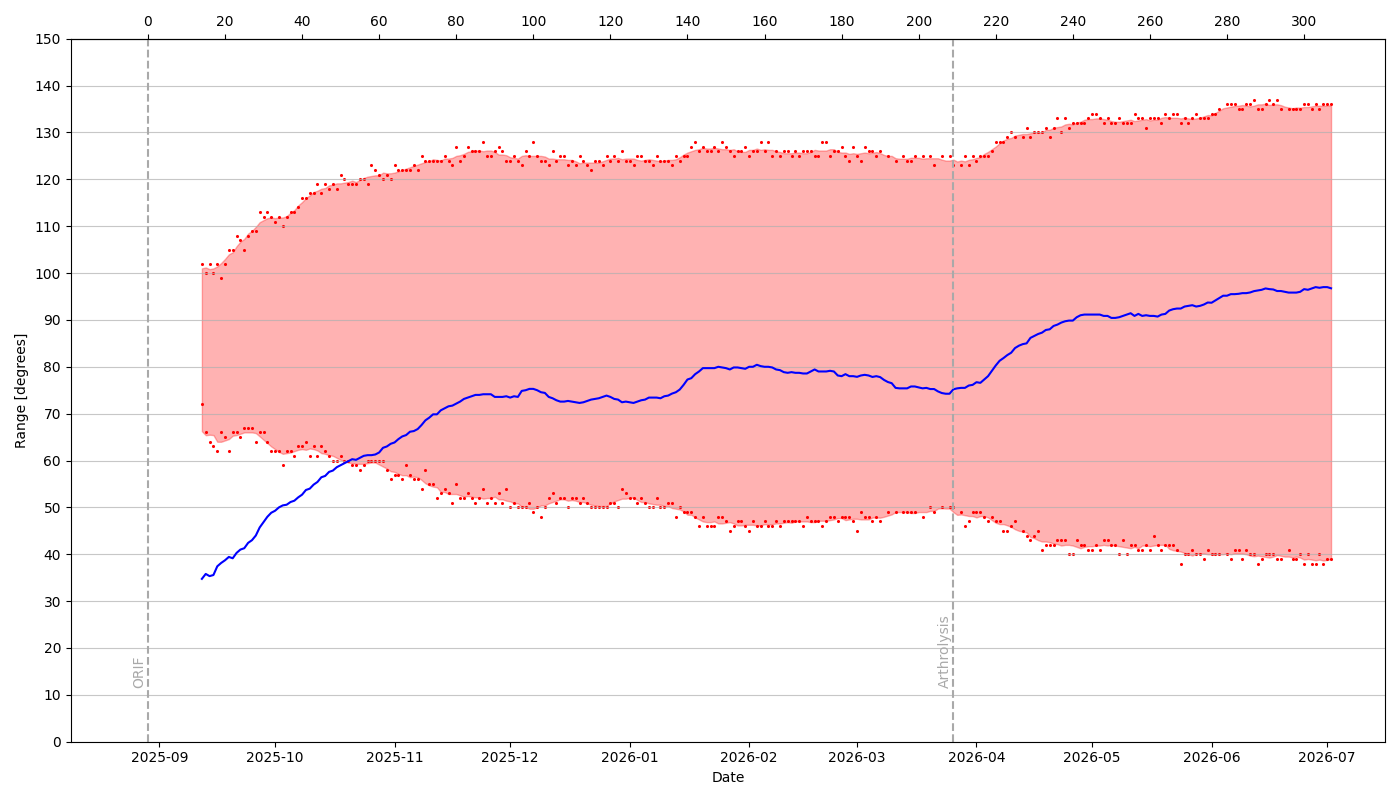
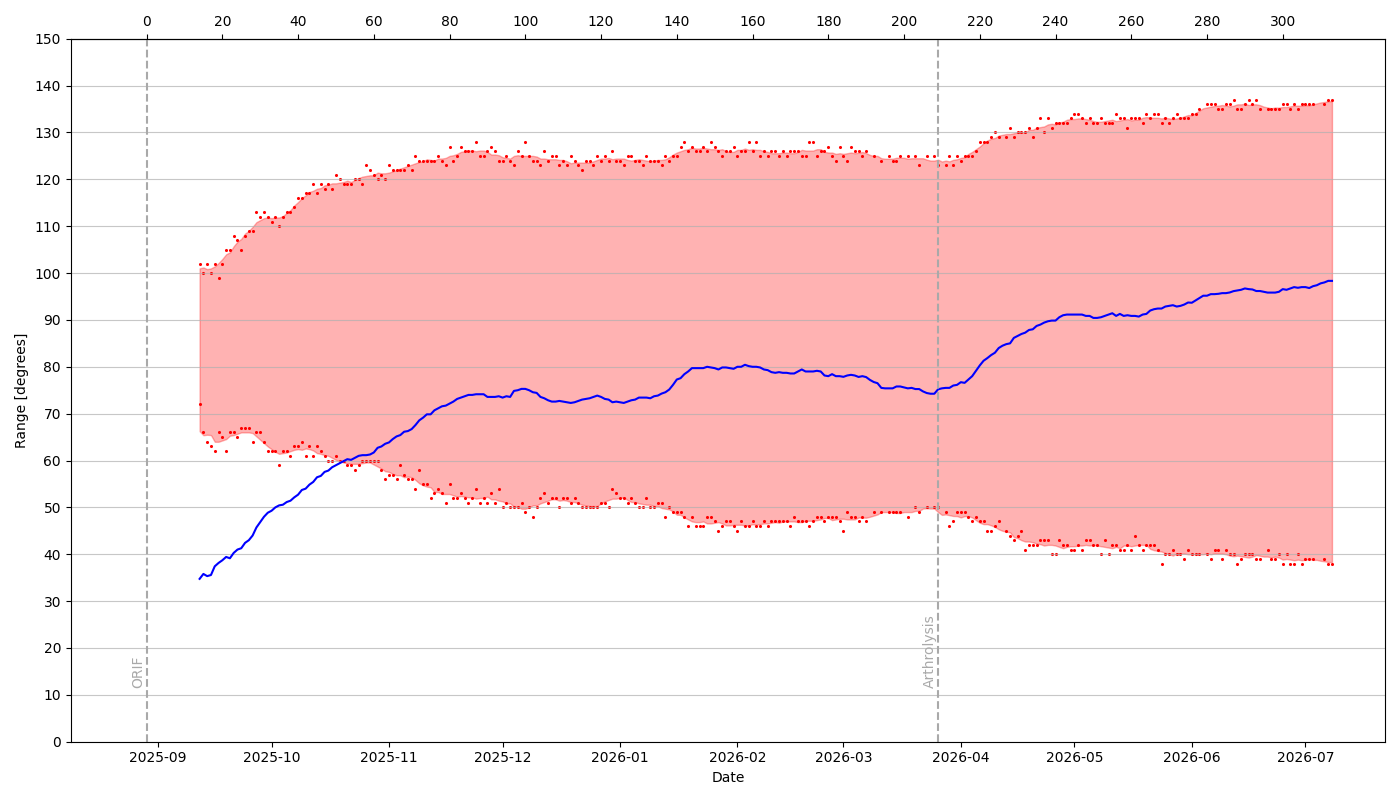
Increase MA period

diff --git a/elbow.py b/elbow.py
@@ -4,7 +4,7 @@ import numpy as np
 import pandas as pd
 import datetime
 
-WINDOW = 5
+WINDOW = 7
 min_periods = 2
 use_dates = True
 
